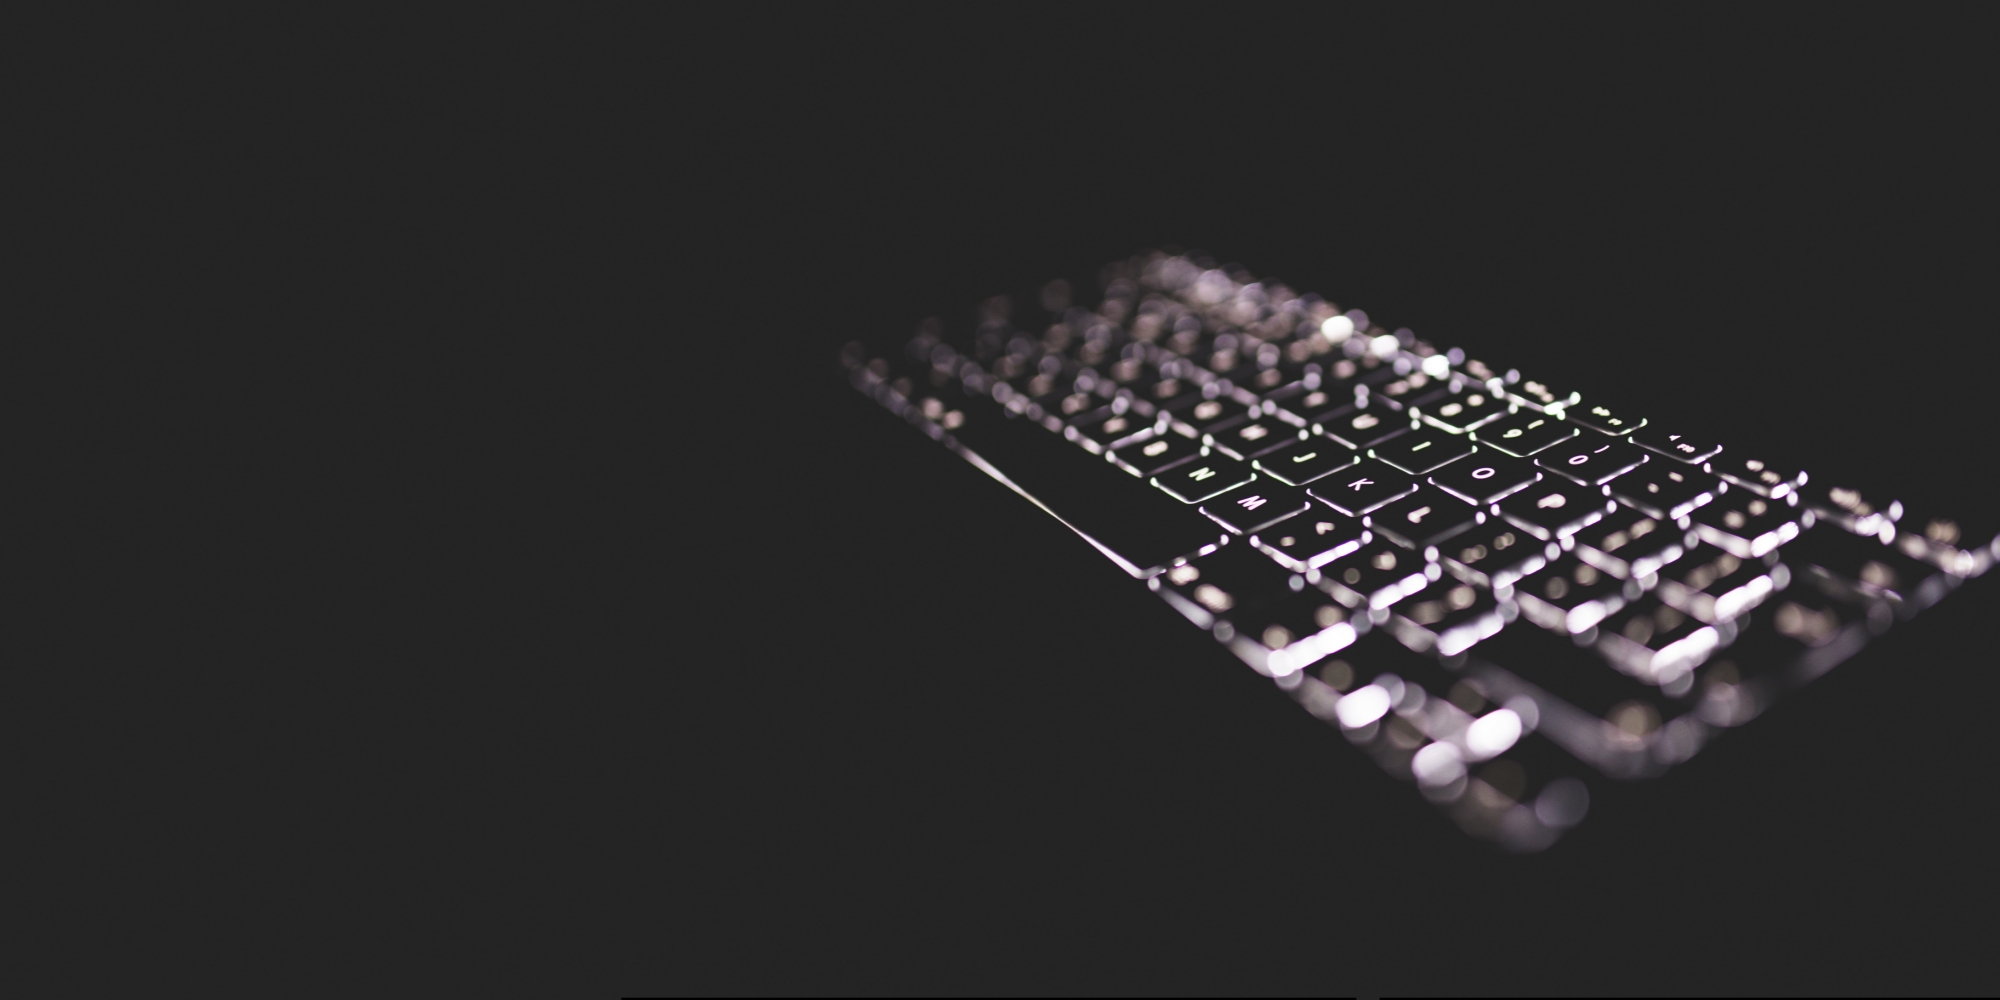
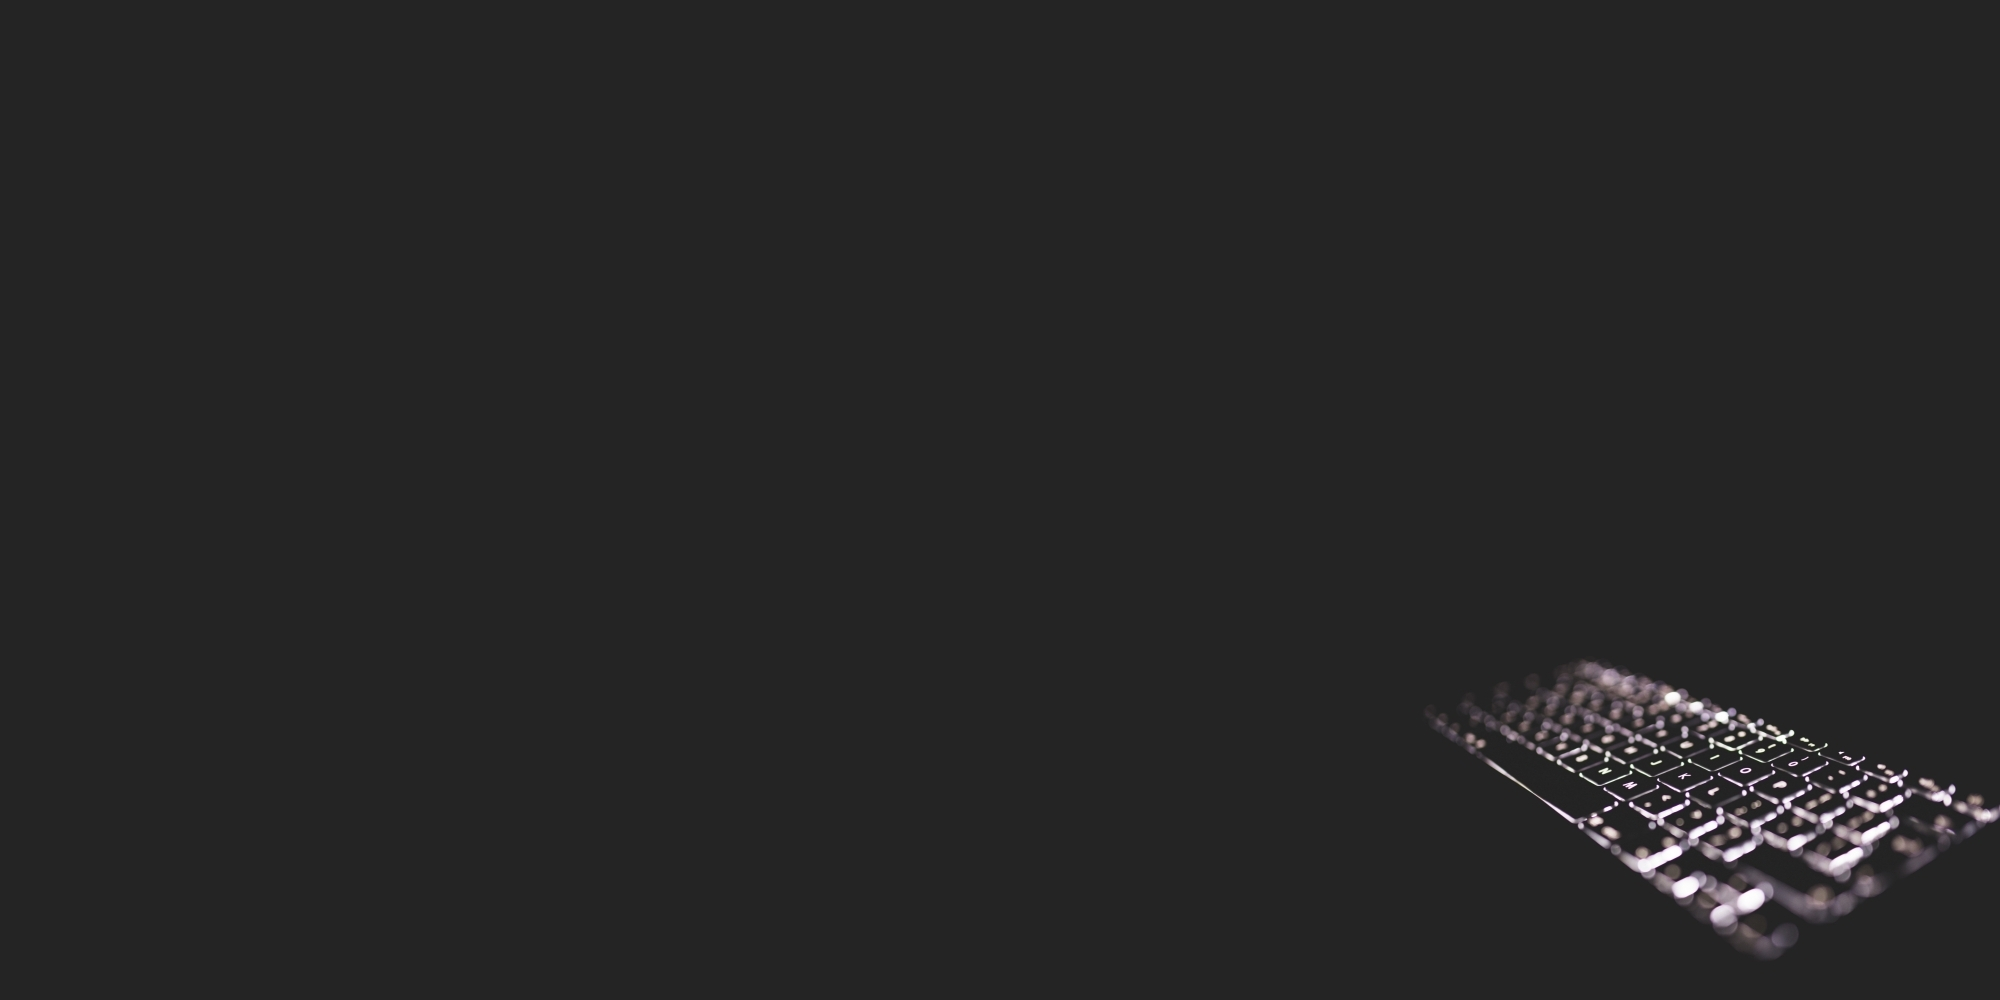
Update cache control and replace image

diff --git a/beta/index.html b/beta/index.html
@@ -2,6 +2,7 @@
 <html lang="en">
 <head>
 	<meta charset="utf-8">
+	<meta http-equiv="Cache-control" content="public">
 	<meta name="viewport" content="width=device-width, initial-scale=1.0">
 	<meta name="description" content="Marcus Heine personal webpage on the Internet" />
 	<meta name="keywords"  content="marcus,heine,mheine,personal,programmer,ai,nlp" />

diff --git a/beta/css/css.css b/beta/css/css.css
@@ -164,7 +164,7 @@ a:active {color:#CCCCCC;}
 }
 
 #slide1 {
-	background: url('../images/keyboard-large-v2.jpg') no-repeat bottom right;
+	background: url('../images/keyboard-large.jpg') no-repeat bottom right;
 	background-size: cover;
 }
 
